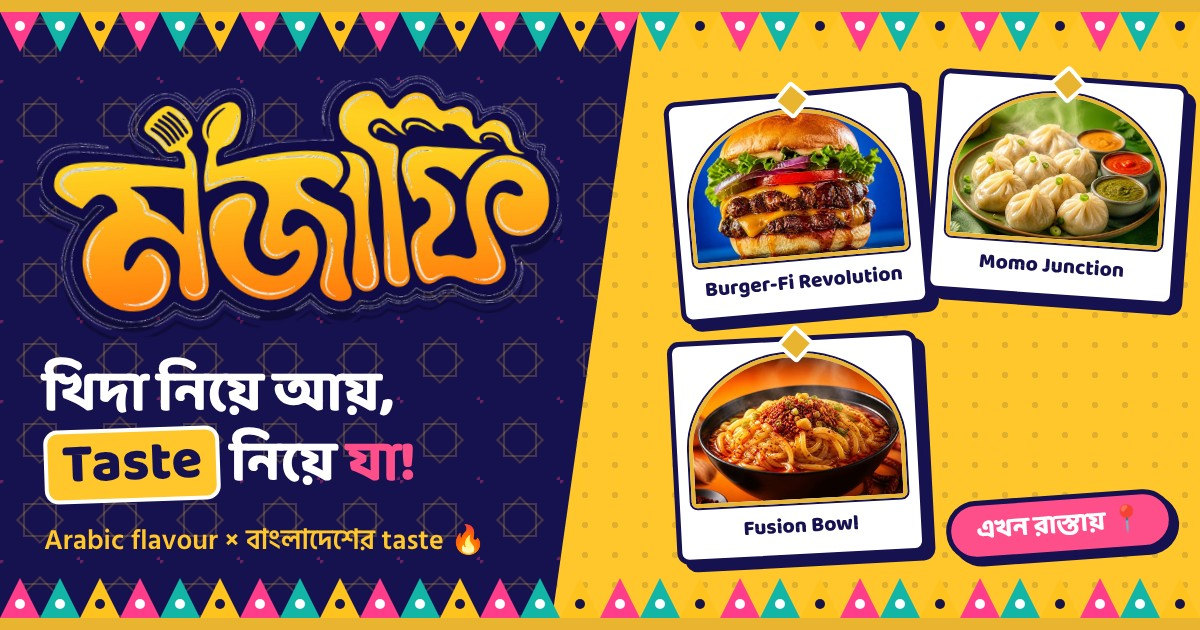
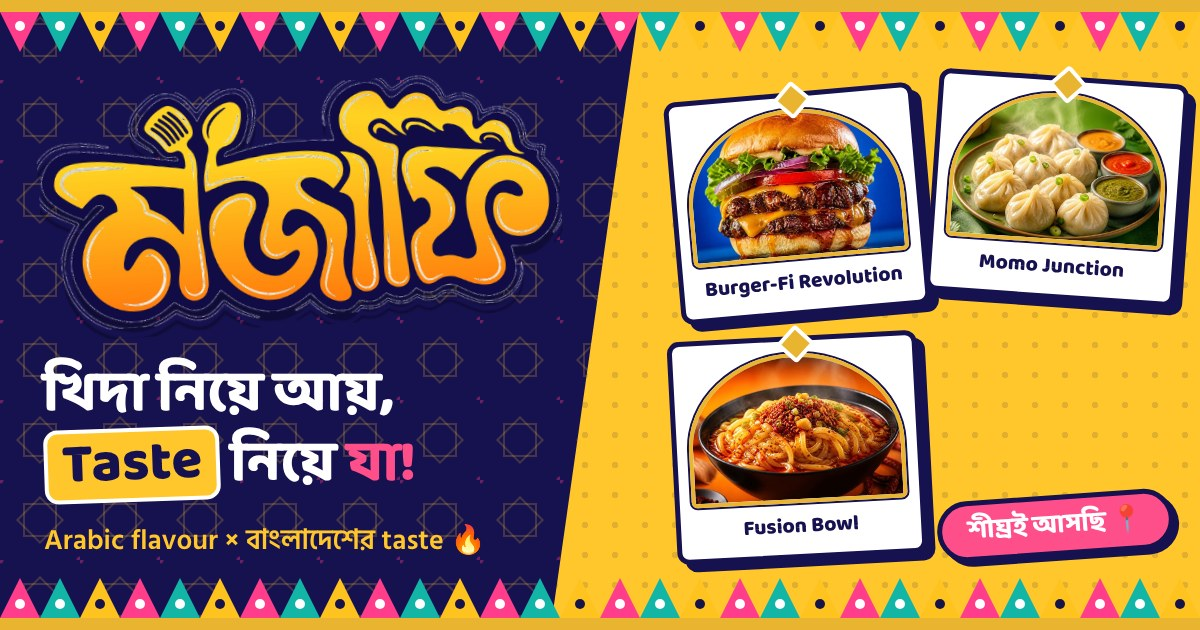
Add files via upload

Changed region(s): [[0.7708, 0.7841, 0.925, 0.9048]]

diff --git a/index.html b/index.html
@@ -790,7 +790,7 @@ a.loc-link{min-height:44px; display:inline-flex; align-items:center;}
 <section class="hero">
   <div class="wrap">
     <div>
-      <div class="pill rv"><b class="live">Live</b> আমরা এখন রাস্তায়, আজ কোথায় আছি দেখে নিন 👀</div>
+      <div class="pill rv"><b class="live">Soon</b> আমরা শীঘ্রই রাস্তায় আসছি, সাথেই থাকুন 👀</div>
       <h1 class="rv" style="--d:.08s">খিদা নিয়ে আয়,<br><span class="hl">Taste</span> নিয়ে <span class="u pk">যা!</span></h1>
       <p class="lead rv" style="--d:.16s"><b class="alz" dir="rtl" lang="ar">يلا</b> habibi! MojaFi এনেছে UAE-এর Arabic flavour আর বাংলাদেশের ঝাল-মসলার taste — burger, wrap, momo, noodles, আর এমন কিছু নাম যা শুনলেই খিদা পায়।</p>
       <div class="rotline rv" style="--d:.2s">MojaFi লাগবেই — <span id="rot">exam শেষে 📚</span></div>
